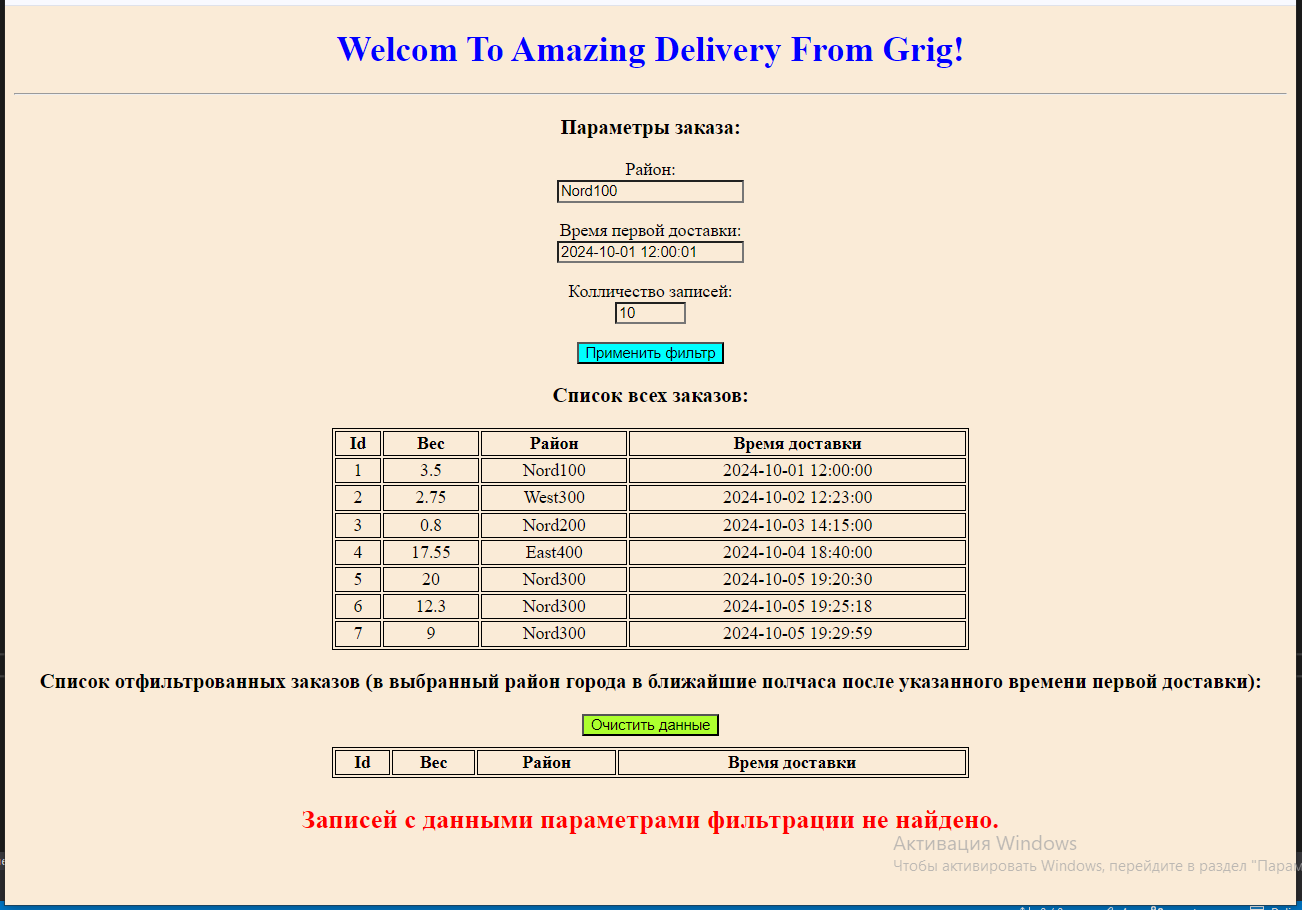
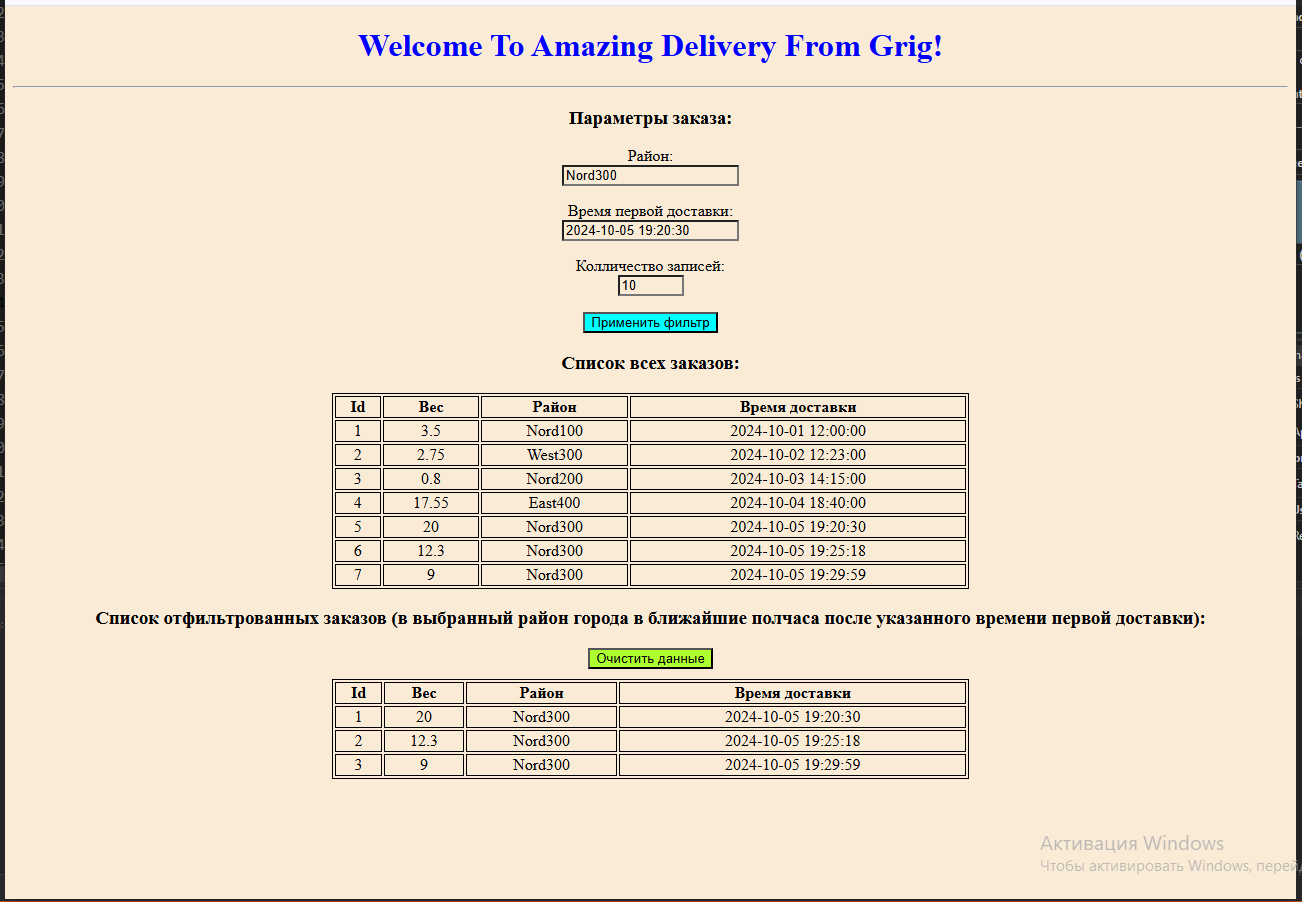
Исправил заголовок

diff --git a/DeliveryGrig.Api/wwwroot/index.html b/DeliveryGrig.Api/wwwroot/index.html
@@ -6,7 +6,7 @@
     <link rel="stylesheet" href="css/style.css">
 </head>
 <body>
-    <h1 class="title_header">Welcom To Amazing Delivery From Grig!</h1>
+    <h1 class="title_header">Welcome To Amazing Delivery From Grig!</h1>
     <hr />
     <h3 class="center-aligh">Параметры заказа:</h3>
     <div class="input-data center-aligh">

diff --git a/DeliveryGrig.Api/Controllers/OrdersController.cs b/DeliveryGrig.Api/Controllers/OrdersController.cs
@@ -12,18 +12,21 @@ namespace DeliveryGrig.Api.Controllers
     [ApiController]
     public class OrdersController : ControllerBase
     {
-
+        private readonly IConfiguration _configuration;
         private readonly DataContext _dataContext;
         private readonly OrderFilter _filter;
         private readonly OrderFilterValidator _orderFilterValidator;
         private readonly ILogger<OrdersController> _logger;
 
-        public OrdersController(DataContext context, OrderFilter orderFilter, OrderFilterValidator orderValidator, ILogger<OrdersController> logger)
+        public OrdersController(DataContext context, OrderFilter orderFilter, OrderFilterValidator orderValidator,
+            ILogger<OrdersController> logger, IConfiguration configuration)
         {
             _dataContext = context;
             _orderFilterValidator = orderValidator;
             _filter = orderFilter;
             _logger = logger;
+            _configuration = configuration;
+
         }
 
         [HttpGet("all")]
@@ -38,6 +41,8 @@ namespace DeliveryGrig.Api.Controllers
             _logger.LogInformation($"Вызова метода POST по пути ресурса api/Orders/filter. " +
                 $"Данные для фильтрации: [_cityDistrict = \"{filterDto._cityDistrict}\", " +
                 $"_firstDeliveryDateTime = \"{filterDto._firstDeliveryDateTime}\"]");
+
+            _logger.LogDebug($"CommandLine Args: _cityDistrict={_configuration["_cityDistrict"]}; _firstDeliveryDateTime={_configuration["_firstDeliveryDateTime"]}");
 
             try {
                 _orderFilterValidator.Validate(filterDto);
